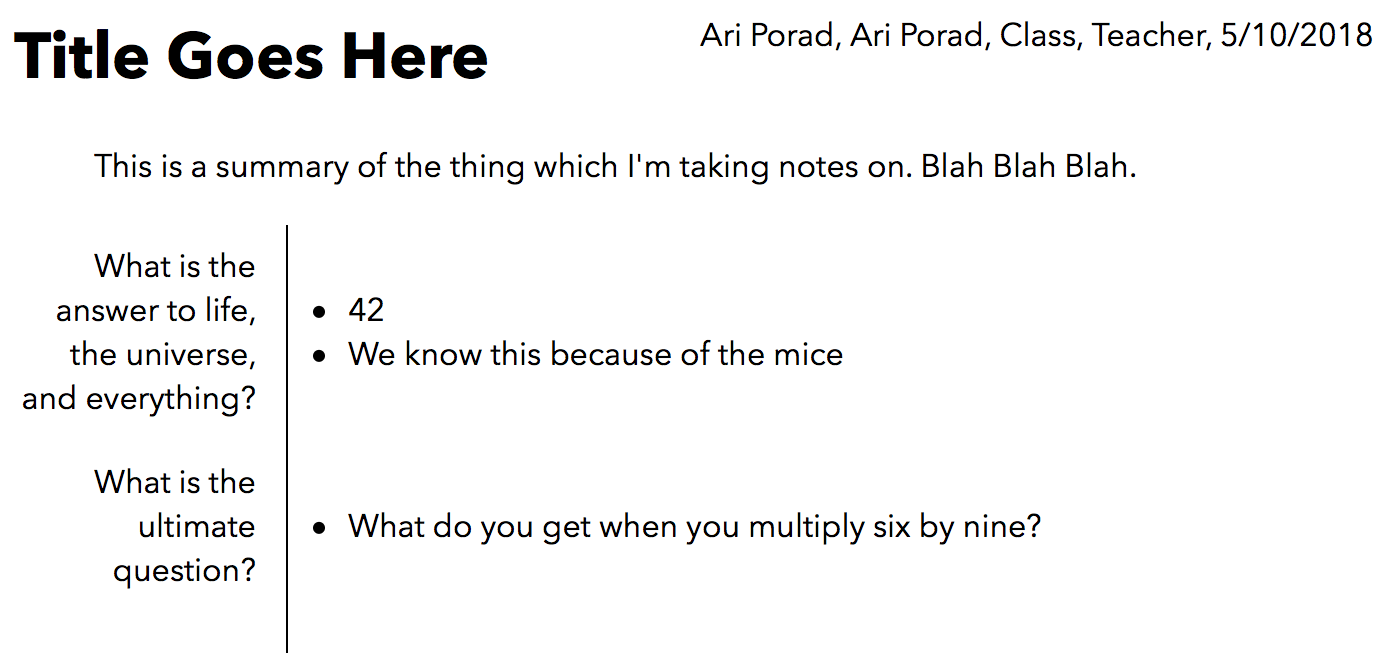
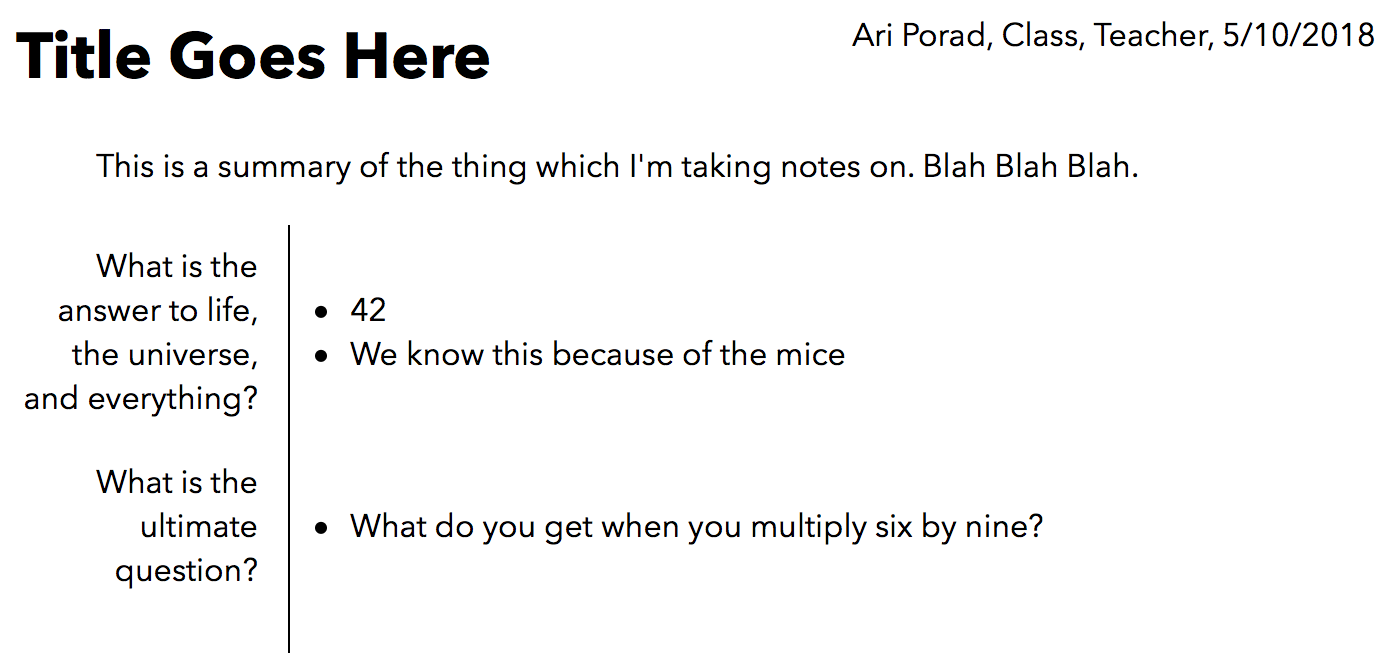
fix: autodetect names

diff --git a/markdown-cornell/index.js b/markdown-cornell/index.js
@@ -1,3 +1,5 @@
+const { execSync } = require('child_process');
+
 const CSS = `
 table {
 	border: none;
@@ -37,6 +39,14 @@ td > ul, td > ol {
 	font-family: 'Avenir Next', Arial, sans-serif;
 }
 `;
+
+function getRealName() {
+	if (process.platform !== 'darwin') return null; // This only works on mac
+	return execSync(
+		`dscl . -read "/Users/$(who am i | awk '{print $1}')" RealName | sed -n 's/^ //g;2p'`,
+		{ encoding: 'utf8' }
+	).trim();
+}
 
 module.exports = function cornellNotes() {
 	return transformer;
@@ -101,7 +111,8 @@ module.exports = function cornellNotes() {
 				],
 			});
 		}
-		heading = heading ? `Ari Porad, ${heading}, ${getDate()}` : `Ari Porad, ${getDate()}`;
+
+		heading = [process.env.SCHOOLKIT_REAL_NAME || getRealName(), heading, getDate()].filter(x => !!x).join(', ');
 		tree.children = [
 			{ type: 'html', value: `<style>${CSS}</style>` },
 			{

diff --git a/README.md b/README.md
@@ -31,7 +31,7 @@ I have to/like to take Cornell notes frequently, but I want to take notes in mar
 Here's the format in markdown:
 
 ```markdown
-#### Ari Porad, Class, Teacher
+#### Class, Teacher
 
 # Title Goes Here
 
@@ -44,7 +44,7 @@ This is a summary of the thing which I'm taking notes on. Blah Blah Blah.
 	* What do you get when you multiply six by nine?
 ```
 
-Here's the output (the date is added automagically):
+Here's the output (your name and the date are added automagically):
 
 ![Cornell Notes Example Output](cornell_example.png)
 

diff --git a/cornell_example.md b/cornell_example.md
@@ -1,4 +1,4 @@
-#### Ari Porad, Class, Teacher
+#### Class, Teacher
 
 # Title Goes Here
 
